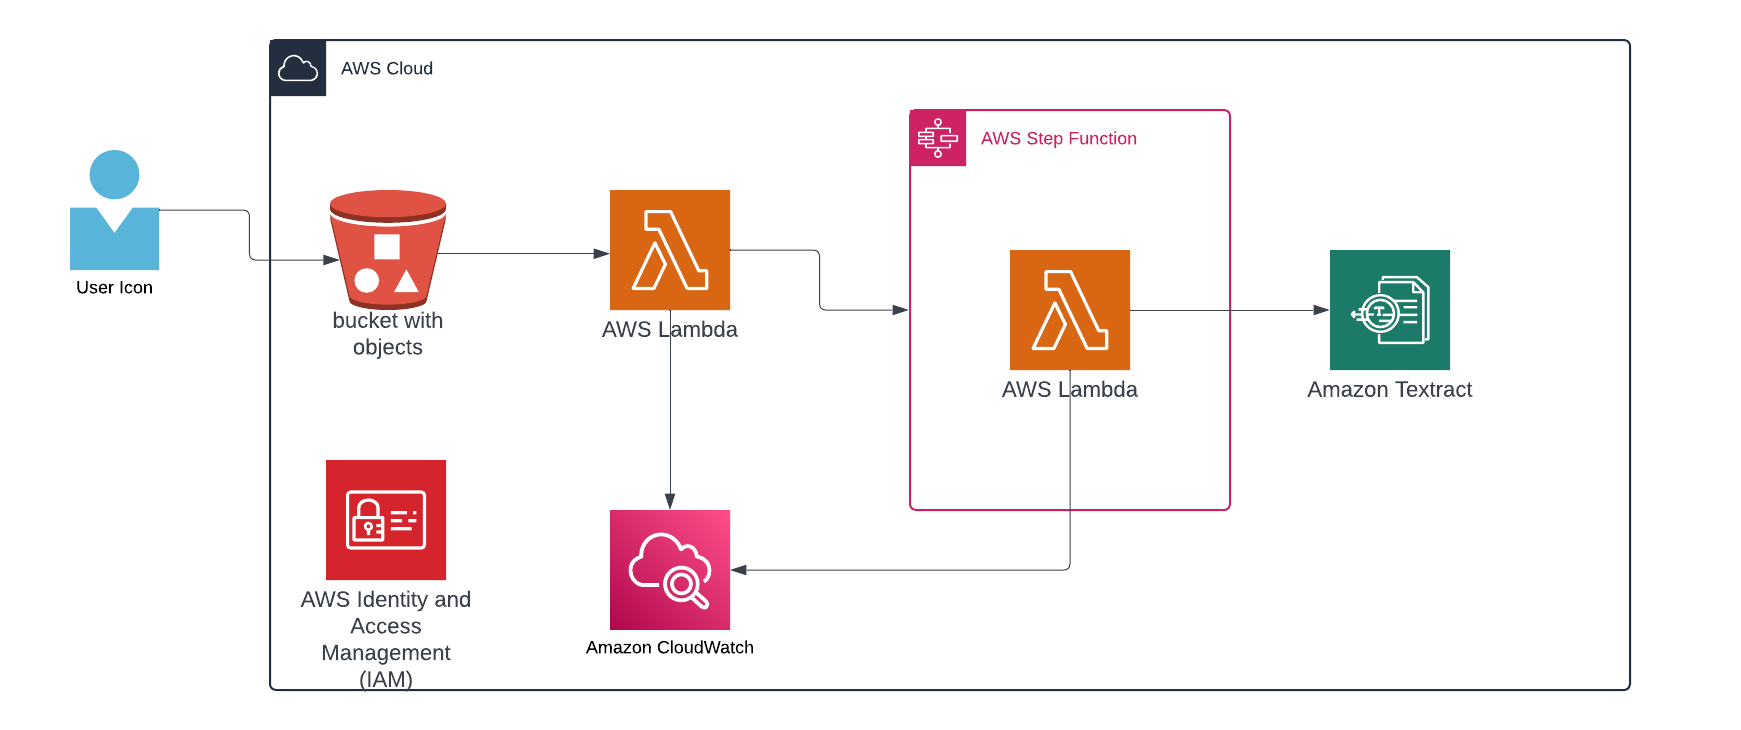
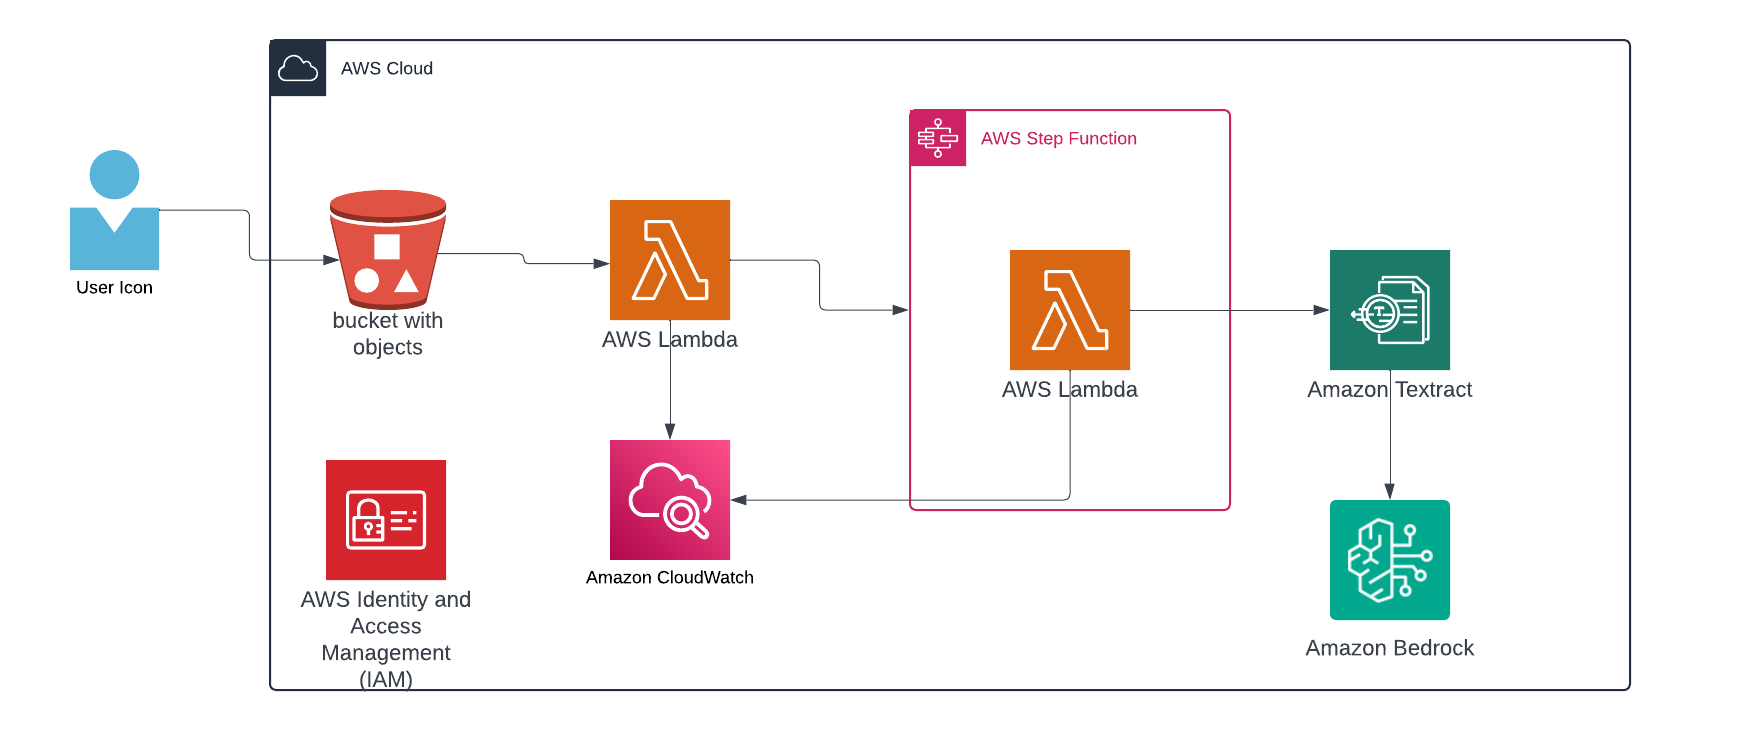
add bedrock

diff --git a/src/trigger_textract/handler.py b/src/trigger_textract/handler.py
@@ -39,6 +39,58 @@ def extract_text_from_image(event):
         return {"error": str(e)}
 
 
+
+def summarize_text(text):
+    """
+    Summarizes the given text.
+
+    Args:
+        text (str): The text to summarize.
+
+    Returns:
+        str: The summarized text.
+    """
+    try:
+        bedrock = boto3.client('bedrock-runtime')
+
+
+        # Invoke the agent with a prompt
+        prompt = f"Write a summary of the text provided: {text}"
+        body = json.dumps({
+            "inputText": prompt,
+            "textGenerationConfig": {
+                "maxTokenCount": 4096,
+                "stopSequences": [],
+                "temperature": 0,
+                "topP": 1
+            }
+        })
+
+        modelId = 'amazon.titan-text-express-v1'
+        accept = 'application/json'
+        contentType = 'application/json'
+
+        response = bedrock.invoke_model(body=body, modelId=modelId, accept=accept, contentType=contentType)
+        response_body = json.loads(response.get('body').read())
+        finish_reason = response_body.get("error")
+
+        if finish_reason is not None:
+            raise Exception(f"Text generation error. Error is {finish_reason}")
+
+        LOGGER.info(
+            "Successfully generated text with Amazon &titan-text-express; model %s", modelId)
+        
+        
+        for result in response_body['results']:
+            LOGGER.info(f"Token count: {result['tokenCount']}")
+            LOGGER.info(f"Output text: {result['outputText']}")
+            LOGGER.info(f"Completion reason: {result['completionReason']}")
+
+    except Exception as e:
+        LOGGER.error("Error summarizing text: " + str(e))
+        return "Error summarizing text: " + str(e)
+
+
 def handler(event, context):
     """
     Triggers a step function execution.
@@ -53,8 +105,9 @@ def handler(event, context):
     # Log the event argument for debugging and for use in local development.
 
     LOGGER.info(json.dumps(event))
-    extract_text_from_image(event)
-
+    response = extract_text_from_image(event)
+    summarize_text(response["text"])
+    return {"statusCode": 200, "message": "Success"}
     # response = textractmodule.detect_document_text(
     #     Document={"S3Object": {"Bucket": s3BucketName, "Name": fileName}}
     # )
